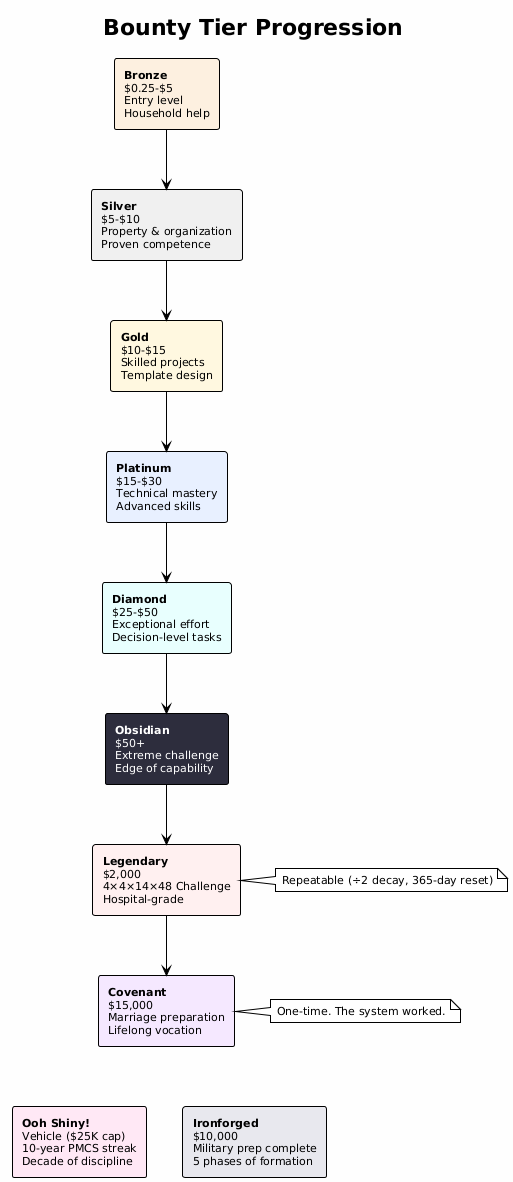
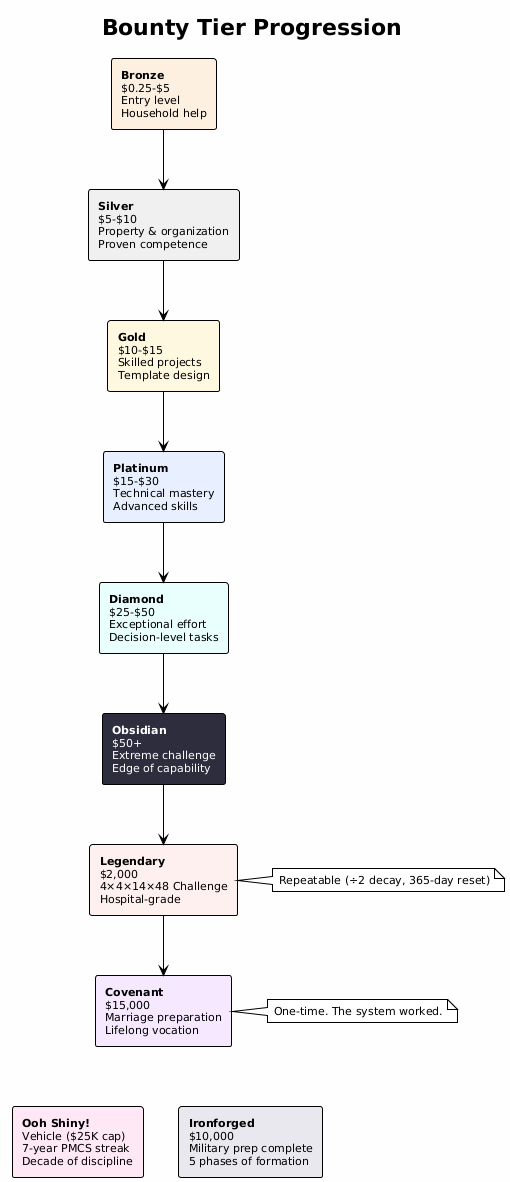
Add wishlist feature and update program diagrams
This commit adds a new wishlist feature to the frontend, allowing users to save toward desired items. It also updates several program diagrams to reflect the latest planned program structures.

Modified:
- app/frontend/src/pages/Economy.jsx — Added wishlistOnly prop and conditional rendering for standalone wishlist view, including form to add new wishlist items, display list of existing wishes, progress bars, and ability to mark wishes as purchased
- app/frontend/src/pages/Profile.jsx — Added new 'Ask and You Shall Receive' section with button to open wishlist view, updated import for Economy component
- app/backend/seed_data.py — Removed two milestones from 0-5 age band
- diagrams/bounty_tiers.png — Updated 'Ooh Shiny!' tier description to '7-year PMCS streak'
- diagrams/bounty_tiers.puml — Same as above
- diagrams/pillars_all.png — Updated milestone count to 493
- diagrams/pillars_all.puml — Same as above
- diagrams/programs_overview.png — Added new 'Physical Fitness' and '311 Civic Service' program tracks, updated existing program structures
- diagrams/programs_overview.puml — Same changes as above PNG

diff --git a/app/frontend/src/pages/Economy.jsx b/app/frontend/src/pages/Economy.jsx
@@ -18,7 +18,7 @@ function getVisibleTiers(eligibleTier, isAdmin) {
   return [...gatedVisible, ...ungated]
 }
 
-export default function Economy({ profileId, isAdmin = true }) {
+export default function Economy({ profileId, isAdmin = true, wishlistOnly = false }) {
   const [eligibility, setEligibility] = useState(null)
   const [incidents, setIncidents] = useState([])
   const [bounties, setBounties] = useState([])
@@ -177,6 +177,60 @@ export default function Economy({ profileId, isAdmin = true }) {
   const handleDeleteWish = async (id) => {
     if (!confirm('Remove from wishlist?')) return
     await deleteWishlistItem(profileId, id); load()
+  }
+
+  if (wishlistOnly) {
+    return (
+      <div>
+        {showWishForm && (
+          <form onSubmit={handleWishSubmit} style={st.form}>
+            <input placeholder="What do you want?" value={wishForm.title} onChange={e => setWishForm({ ...wishForm, title: e.target.value })} style={st.input} autoFocus />
+            <div style={{ display: 'flex', gap: 12, flexWrap: 'wrap' }}>
+              <input placeholder="$ cost" type="number" step="0.01" min="0" value={wishForm.cost_cents} onChange={e => setWishForm({ ...wishForm, cost_cents: e.target.value })} style={{ ...st.input, maxWidth: 100 }} />
+              <input placeholder="Link/URL (optional)" value={wishForm.url} onChange={e => setWishForm({ ...wishForm, url: e.target.value })} style={{ ...st.input, flex: 1 }} />
+              <select value={wishForm.priority} onChange={e => setWishForm({ ...wishForm, priority: parseInt(e.target.value) })} style={{ ...st.input, maxWidth: 120 }}>
+                <option value={1}>Low priority</option>
+                <option value={2}>Medium</option>
+                <option value={3}>High priority</option>
+              </select>
+            </div>
+            <input placeholder="Why do you want it? (optional)" value={wishForm.description} onChange={e => setWishForm({ ...wishForm, description: e.target.value })} style={st.input} />
+            <button type="submit" style={{ ...st.submitBtn, background: '#8e44ad' }}>Add to Wishlist</button>
+          </form>
+        )}
+        <div style={{ display: 'flex', justifyContent: 'flex-end', marginBottom: 12 }}>
+          <button onClick={() => setShowWishForm(!showWishForm)} style={{ ...st.btn, background: '#8e44ad' }}>{showWishForm ? 'Cancel' : '+ Add Item'}</button>
+        </div>
+        {wishlist.length === 0 && !showWishForm && <p style={{ color: '#888', textAlign: 'center', padding: 20 }}>No wishlist items yet. What are you saving toward?</p>}
+        {wishlist.map(item => {
+          const earned = earnings ? earnings.total_earned_cents : 0
+          const pct = item.cost_cents > 0 ? Math.min(100, Math.round((earned / item.cost_cents) * 100)) : 0
+          const priorityLabel = { 1: '⭐', 2: '⭐⭐', 3: '⭐⭐⭐' }[item.priority] || ''
+          return (
+            <div key={item.id} style={{ ...st.bountyItem, borderLeft: `3px solid ${item.status === 'purchased' ? '#2ecc71' : item.status === 'approved' ? '#f5a623' : '#e0e0e0'}` }}>
+              <button onClick={() => cycleWishStatus(item)} style={st.statusDot} title={item.status}>
+                <span style={{ fontSize: 16 }}>{item.status === 'purchased' ? '✓' : item.status === 'approved' ? '👍' : '💭'}</span>
+              </button>
+              <div style={{ flex: 1 }}>
+                <span style={{ textDecoration: item.status === 'purchased' ? 'line-through' : 'none' }}>{item.title}</span>
+                <span style={{ fontSize: 11, marginLeft: 6 }}>{priorityLabel}</span>
+                {item.description && <p style={{ margin: '2px 0 0', fontSize: 12, color: '#888' }}>{item.description}</p>}
+                {item.cost_cents > 0 && item.status === 'saving' && (
+                  <div style={{ marginTop: 4 }}>
+                    <div style={{ width: '100%', height: 4, background: '#eee', borderRadius: 2 }}>
+                      <div style={{ width: `${pct}%`, height: 4, background: '#8e44ad', borderRadius: 2 }} />
+                    </div>
+                    <span style={{ fontSize: 10, color: '#888' }}>{pct}% of ${(item.cost_cents / 100).toFixed(2)}</span>
+                  </div>
+                )}
+              </div>
+              {item.cost_cents > 0 && <span style={{ fontWeight: 600, fontSize: 14 }}>${(item.cost_cents / 100).toFixed(2)}</span>}
+              <button onClick={() => handleDeleteWish(item.id)} style={st.delBtn}>&times;</button>
+            </div>
+          )
+        })}
+      </div>
+    )
   }
 
   return (

diff --git a/app/frontend/src/pages/Profile.jsx b/app/frontend/src/pages/Profile.jsx
@@ -364,6 +364,18 @@ export default function Profile() {
           })}
         </div>
 
+        {/* Ask and you shall receive — Wishlist */}
+        <h2 style={{ ...s.sectionTitle, marginTop: 32 }}>Ask and You Shall Receive</h2>
+        <div className="pillar-grid-desktop">
+          {(!pillarFilter || 'wishlist'.includes(pillarFilter.toLowerCase()) || 'ask'.includes(pillarFilter.toLowerCase())) && (
+            <button onClick={() => setActivePillar('__wishlist__')} style={{ ...s.pillarCard, border: '2px solid #e0f0d0' }}>
+              <span style={{ fontSize: 28 }}>🎁</span>
+              <span style={{ fontSize: 14, fontWeight: 600, marginTop: 8 }}>Wishlist</span>
+              <span style={{ fontSize: 11, color: '#888', marginTop: 4 }}>Save toward what you want</span>
+            </button>
+          )}
+        </div>
+
         {/* Programs, Career & Economy */}
         <h2 style={{ ...s.sectionTitle, marginTop: 32 }}>Programs, Career & Economy</h2>
         <div className="pillar-grid-desktop">
@@ -563,6 +575,21 @@ export default function Profile() {
             <span style={{ fontSize: 10, color: '#bbb' }}>{new Date(entry.created_at).toLocaleDateString()}</span>
           </div>
         ))}
+      </div>
+    )
+  }
+
+  // Wishlist standalone view
+  if (activePillar === '__wishlist__') {
+    return (
+      <div style={s.container}>
+        <button onClick={() => setActivePillar(null)} style={s.backBtn}>&larr; Back to Dashboard</button>
+        <div style={{ display: 'flex', alignItems: 'center', gap: 12, margin: '24px 0 16px' }}>
+          <span style={{ fontSize: 32 }}>🎁</span>
+          <h2 style={{ margin: 0 }}>Ask and You Shall Receive</h2>
+        </div>
+        <p style={{ fontSize: 14, color: '#666', marginBottom: 20, fontStyle: 'italic' }}>What do you want to save toward? Add it here. Watch your earnings grow toward it.</p>
+        <Economy profileId={id} wishlistOnly={true} />
       </div>
     )
   }

diff --git a/app/backend/seed_data.py b/app/backend/seed_data.py
@@ -6,8 +6,6 @@ MILESTONES = {
         {"age_band": "0-5", "title": "Family prayers", "category": "Foundation"},
         {"age_band": "0-5", "title": "Church attendance", "category": "Foundation"},
         {"age_band": "0-5", "title": "Bible stories", "category": "Foundation"},
-        {"age_band": "0-5", "title": "Learn gratitude", "category": "Foundation"},
-        {"age_band": "0-5", "title": "Learn forgiveness", "category": "Foundation"},
         # Age 6-12: Exploration
         {"age_band": "6-12", "title": "Read children's Bible", "category": "Exploration"},
         {"age_band": "6-12", "title": "Memorize key verses", "category": "Exploration"},